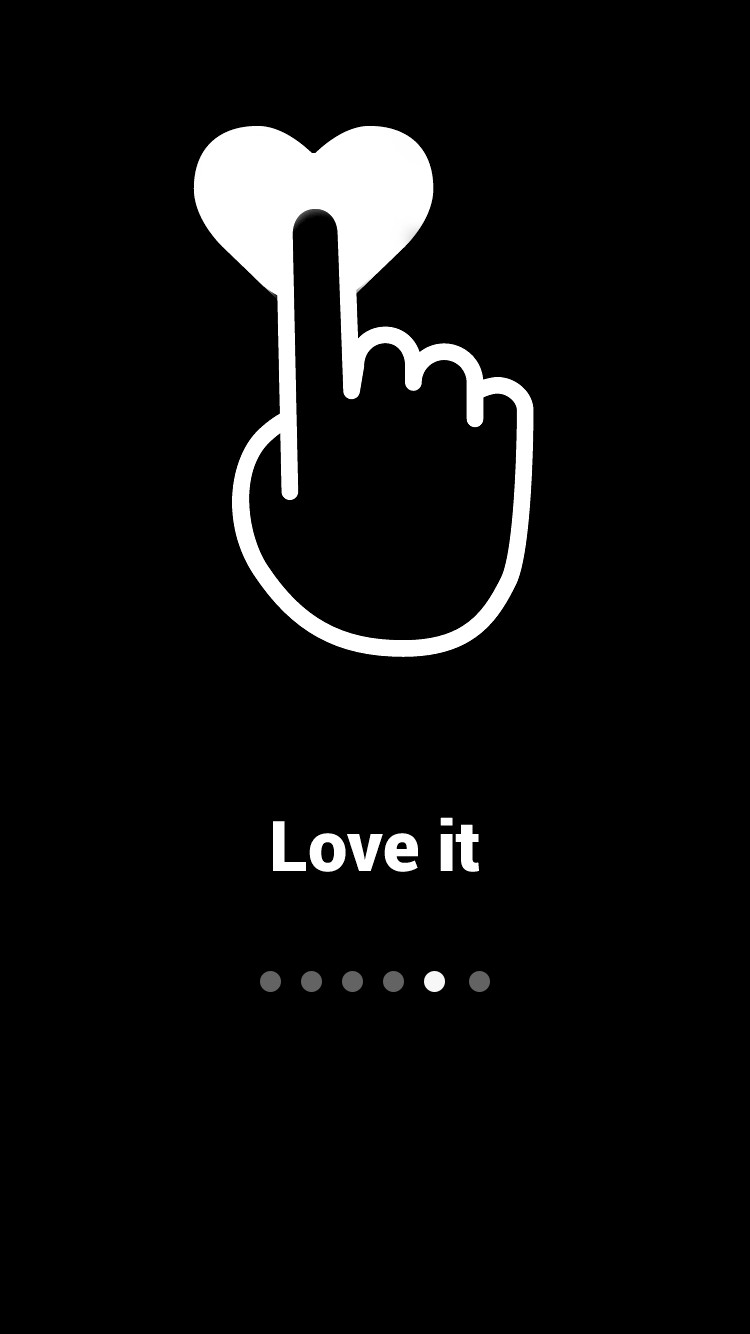
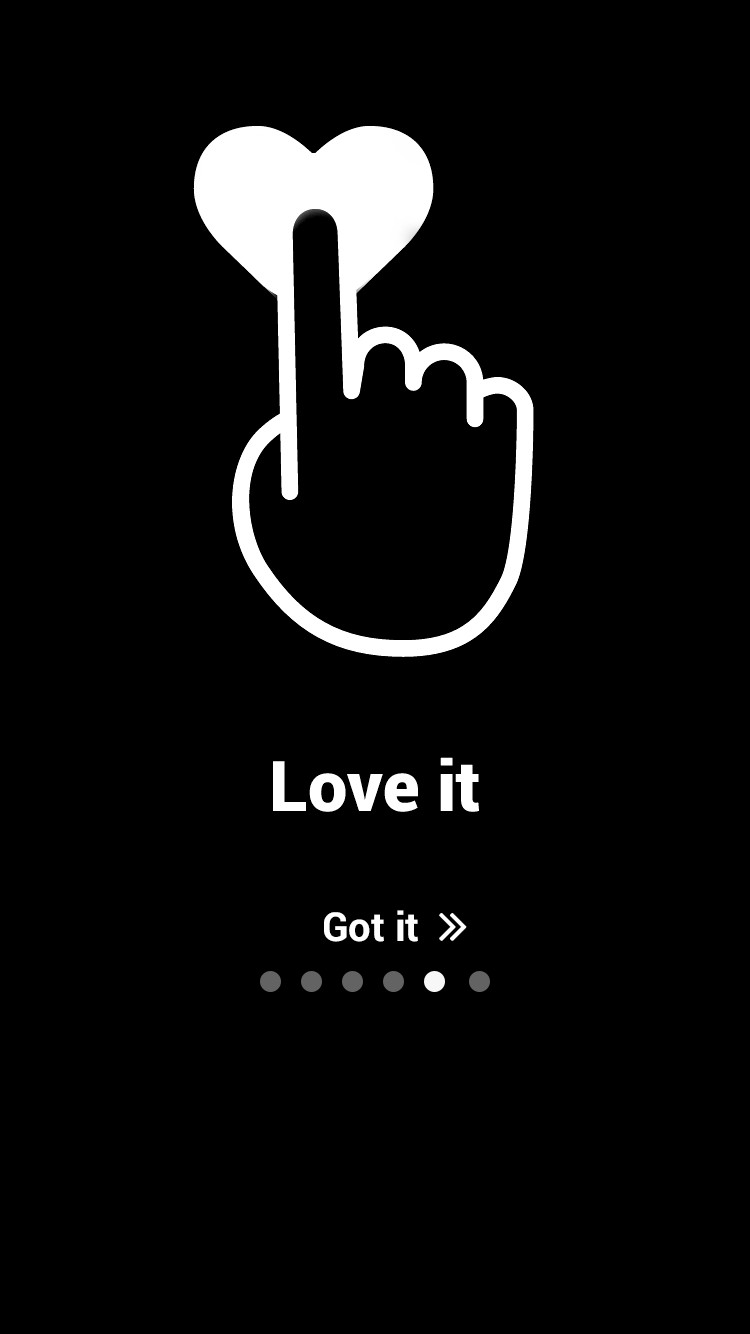
updated instruction

Changed region(s): [[0.3373, 0.5532, 0.552, 0.7069], [0.5827, 0.5532, 0.644, 0.7069]]

diff --git a/public/js/controller/remotecontrol.js b/public/js/controller/remotecontrol.js
@@ -1,11 +1,11 @@
 var angular = angular || {};
 
 angular.module('app.controller.remotecontrol', [])
-.controller('RemoteControlCtrl', ["$scope", "$rootScope", "$location", "$socket", "$state", "ParseService", "$interval", 
+.controller('RemoteControlCtrl', ["$scope", "$rootScope", "$location", "$socket", "$state", "ParseService", "$interval",
 	function($scope, $rootScope, $location, $socket, $state, ParseService, $interval) {
 	console.log("RemoteControlCtrl.");
     $rootScope.title = $location.url();
-	
+
 	//comment out for testing
     if($rootScope.partner == undefined) {$state.transitionTo('Start');};
 
@@ -23,7 +23,7 @@ angular.module('app.controller.remotecontrol', [])
 	    	if ( $scope.content[i].price == " (Signup)") {
 	    		$scope.total = $scope.total;
 	    	} else {
-			    $scope.total = $scope.total + $scope.content[i].price;	    		
+			    $scope.total = $scope.total + $scope.content[i].price;
 	    	}
 		    console.log($scope.content[i].price);
 	    };
@@ -69,7 +69,7 @@ angular.module('app.controller.remotecontrol', [])
 		$("#toucharea").show();
 		$("#cartcontents").hide();
 		$("#help").hide();
- 		$("#viewcarticon").css("background-color", "#e52d27")
+ 		$("#viewcarticon").css("background-color", "#ccc");
 
 		$("#tvicon").removeClass("inactive");
 		$("#helpicon").addClass("inactive");
@@ -81,33 +81,35 @@ angular.module('app.controller.remotecontrol', [])
         $socket.emit('remote view cart', { "partner": $rootScope.partner });
 		$("#toucharea").hide();
  		$("#cartcontents").show();
- 		$("#viewcarticon").css("background-color", "#000")
+ 		$("#viewcarticon").css("background-color", "#000");
 
 		$("#tvicon").addClass("inactive");
 		$("#helpicon").addClass("inactive");
 		$("#moreicon").addClass("inactive");
 	};
 
-	$scope.next = function () { 
+	$scope.next = function () {
 		console.log(index);
-		if(index == 0) {index++; $("#prev").fadeIn(); $("#next").fadeOut(); }
-		else if(index == 1) {index++; $("#up").fadeIn(); $("#prev").fadeOut(); }
-		else if(index == 2) {index++; $("#down").fadeIn(); $("#up").fadeOut(); }
-		else if(index == 3) {index++; $("#heart").fadeIn(); $("#down").fadeOut(); }
-		else if(index == 4) {index++; $("#end").fadeIn(); $("#heart").fadeOut(); }
+		if(index == 0) {index++; $("#next").fadeIn(); $("#intro").fadeOut(); }
+		else if(index == 1) {index++; $("#prev").fadeIn(); $("#next").fadeOut(); }
+		else if(index == 2) {index++; $("#up").fadeIn(); $("#prev").fadeOut(); }
+		else if(index == 3) {index++; $("#down").fadeIn(); $("#up").fadeOut(); }
+		else if(index == 4) {index++; $("#heart").fadeIn(); $("#down").fadeOut(); }
+		else if(index == 5) {index++; $("#end").fadeIn(); $("#heart").fadeOut(); }
 		// else if(index == 5) {index = 0; $("#next").fadeIn(); $("#end").fadeOut(); };
 	};
 
-	$scope.prev = function () { 
+	$scope.prev = function () {
 		console.log(index);
 		if(index == 0) {
 			// index = 0; $("#end").fadeIn(); $("#next").fadeOut();
 		}
-		else if(index == 1) {index--; $("#next").fadeIn(); $("#prev").fadeOut(); }
-		else if(index == 2) {index--; $("#prev").fadeIn(); $("#up").fadeOut(); }
-		else if(index == 3) {index--; $("#up").fadeIn(); $("#down").fadeOut(); }
-		else if(index == 4) {index--; $("#down").fadeIn(); $("#heart").fadeOut(); }
-		else if(index == 5) {index--; $("#heart").fadeIn(); $("#end").fadeOut();};
+		else if(index == 1) {index--; $("#intro").fadeIn(); $("#next").fadeOut(); }
+		else if(index == 2) {index--; $("#next").fadeIn(); $("#prev").fadeOut(); }
+		else if(index == 3) {index--; $("#prev").fadeIn(); $("#up").fadeOut(); }
+		else if(index == 4) {index--; $("#up").fadeIn(); $("#down").fadeOut(); }
+		else if(index == 5) {index--; $("#down").fadeIn(); $("#heart").fadeOut(); }
+		else if(index == 6) {index--; $("#heart").fadeIn(); $("#end").fadeOut();};
 	};
 
 	$scope.help = function(){
@@ -116,13 +118,13 @@ angular.module('app.controller.remotecontrol', [])
 		$("#help").show();
 		$("#toucharea").hide();
 		$("#cartcontents").hide();
- 		$("#viewcarticon").css("background-color", "#e52d27");
+ 		$("#viewcarticon").css("background-color", "#ccc");
 		$("#tvicon").addClass("inactive");
 		$("#helpicon").removeClass("inactive");
 		$("#moreicon").addClass("inactive");
 
 		//make sure
-		$("#next").show();
+		$("#intro").show();
 		$("#end").hide();
 		index = 0;
 	};
@@ -133,7 +135,7 @@ angular.module('app.controller.remotecontrol', [])
 		$("#toucharea").hide();
 		$("#cartcontents").hide();
 		$("#help").hide();
- 		$("#viewcarticon").css("background-color", "#e52d27")
+ 		$("#viewcarticon").css("background-color", "#ccc");
 
 		$("#tvicon").addClass("inactive");
 		$("#helpicon").addClass("inactive");

diff --git a/public/js/controller/connectscreen.js b/public/js/controller/connectscreen.js
@@ -8,34 +8,47 @@ angular.module('app.controller.connectscreen', [])
 	// http://stackoverflow.com/questions/1349404/generate-a-string-of-5-random-characters-in-javascript
     var possible = "0123456789";
 
-	function keykeykey() {
+	function keykeykey( callback ) {
+		$scope.pairKey = "";
 	    //create a unique key and send it to server
 	    for( var i=0; i < 4; i++ ) {
 	        $scope.pairKey += possible.charAt(Math.floor(Math.random() * possible.length));
 	        if ($scope.pairKey.length == 4) {
 			    console.log($scope.pairKey);
+				$scope.$apply();
 			    $socket.emit('pairKey', $scope.pairKey, function(data){
 			    	$rootScope.myId = data;
 			    	console.log($rootScope.myId);
 			    });
 			}
 	    };
+	    if (callback){ callback(); };
 	};
 
-    //if after 3s no key is asigned, get a new key
-	setTimeout(function(){
-		if ($scope.pairKey == "") {
-			keykeykey();
-			console.log("setTimeout kicked in");
-		};
-	}, 5000);
+	function fadeKeyIn(){
+		//when the array is full then fade in the key
+		if ($rootScope.heartsArray.length == 6 && $scope.pairKey !== ""){
+			console.log("fadeKeyIn", $scope.pairKey, $("#key").html());
+			$("#loading").fadeOut( function (){
+				$("#key").fadeIn();
+			});
+		} else {
+			console.log("key is empty, get key");
+			keykeykey(function(){
+				setTimeout(function(){
+					fadeKeyIn();
+				}, 1000);
+			});
+		}
+	}
 
     $socket.on('get key', function(){
     	console.log("server says get key")
     	if( $scope.pairKey == "" ) {
+    		console.log("key is empty, get key");
     		keykeykey();
     	} else {
-		    console.log($scope.pairKey);
+		    console.log("already have key: " + $scope.pairKey);
 		}
     })
 
@@ -117,22 +130,20 @@ angular.module('app.controller.connectscreen', [])
 		getDataFromYT(function(data){
 			console.log(data[0].attributes);
 			for (i=0;i<data.length;i++) {
+				//
+				//
+				//
+				// CHANGE heartstest to hearts for real data
+				//
+				//
+				//
 				processData(data[i].attributes.hearts, data[i].attributes.duration, i, function(cbdata) {
 					// console.dir(cbdata);
 					$rootScope.heartsArray.push(cbdata);
 					// console.log($rootScope.heartsArray);
 				});
 			}
-			//when the array is full then fade in the key
-			if ($rootScope.heartsArray.length == 6 && $scope.pairKey !== ""){
-				$("#loading").fadeOut( function (){
-					$("#key").fadeIn();
-				});
-			} else {
-				$("#loading").delay(3000).fadeOut( function (){
-					$("#key").fadeIn();
-				})
-			}
+			fadeKeyIn();
 		});
 	});
 

diff --git a/public/css/style.css b/public/css/style.css
@@ -42,6 +42,11 @@ body{
 	-webkit-transition: 1s;
 }
 
+#connectscreen span {
+	font-style: italic;
+	border-bottom: 2px solid #fff;
+}
+
 #connectscreen h1:hover {
 	background-color: #e52d27;
 }
@@ -438,15 +443,16 @@ iframe {
 	text-align: center;
  }
 
-/****************** REMOTE CONTROLE *********************/
+/****************** REMOTE CONTROL *********************/
 
 #toucharea {
 	z-index: 10;
 	position: absolute;
 	top: 0;
-	height: 88vh;
-	width: 100vw;
+	height: 86vh;
+	width: calc(100vw - 2vh);
 	margin: 0;
+	border: 1vh solid #444;
 	-webkit-transition: 0.5s cubic-bezier(0.250, 0.250, 0.750, 0.750) all;
 	-moz-transition: 0.5s cubic-bezier(0.250, 0.250, 0.750, 0.750) all;
 	-ms-transition: 0.5s cubic-bezier(0.250, 0.250, 0.750, 0.750) all;
@@ -459,14 +465,12 @@ iframe {
 	z-index: 20;
 	position: absolute;
 	top: 0;
-	bottom: 12vh;
-	height: 88vh;
+	height: 87vh;
 	width: 100vw;
-	padding-bottom: 20vh;
 	margin: 0;
 	color: #000;
 	font-size: 8vw;
-	background-color: #f8f8f8;
+	background-color: #eee;
 	overflow: scroll;
 }
 
@@ -517,7 +521,7 @@ iframe {
 	margin: 0;
 }*/
 
-#prev, #next, #up, #down, #heart, #end {
+#intro, #prev, #next, #up, #down, #heart, #end {
 	z-index: 20;
 	position: fixed;
 	top: 0;
@@ -542,7 +546,7 @@ iframe {
 
 #morelinks {
 	z-index: 20;
-	position: absolute;
+	position: fixed;
 	top: 0;
 	height: 88vh;
 	width: 100vw;
@@ -564,10 +568,10 @@ iframe {
 	z-index: 100;
 	position: fixed;
 	bottom: 0;
+	border-top: 1vh solid #444;
 	height: 12vh;
 	width: 100vw;
 	margin: 0;
-	border-top: 1vh solid #000;
 	display: block;
 	background-color: #fff;
 }
@@ -617,7 +621,7 @@ iframe {
 #viewcarticon {
 	width: 30vw !important;
 	height: 26vw !important;
-	background-color: #e52d27;
+	background-color: #ccc;
 	border-radius: 4vw 4vw 0 0;
 	position: absolute;
 	bottom: -1vw;
@@ -820,7 +824,3 @@ progress-bar {
 	z-index: 101;
 	bottom: 0;
 }
-
-
-
-

diff --git a/public/js/app.js b/public/js/app.js
@@ -1,8 +1,8 @@
 var angular = angular || {};
 
-// Main JavaScript file
-// Init Angular world by linking to 'myApp' namespace declared in <body>
-// in [ ], add any dependencies used for the project
+// Our main JavaScript file
+// Init Angular world by linking to 'myApp' namespace we declared in <body>
+// in [ ], we add any dependencies used for the project
 // `ui.router` is reserved by ui.router library
 
 angular.module('myApp', ['ui.router',
@@ -29,13 +29,16 @@ angular.module('myApp', ['ui.router',
     //start with empty cart
     $rootScope.cartarray = [];
 
-    //parse app key, js key
+    //app key, js key
     Parse.initialize("MdRE1kDbDdzLGlnL58RylsrgHedWuyt5havoBScC", "oIeP9WumrqoPgFV5StUEfIK58xbQOtUgFf6e7RPk");
 
   })
   //options of each services, chained to .run
   //no angular services in there
   .config(function($socketProvider){
-    //Server:Port (server side app.js) e.g. "http://192.168.1.31:3000"
-    $socketProvider.setConnectionUrl('SERVER:PORT');
+    //IMPORTANT CHANGE WHEN MOVING TO DIFFERENT SERVER
+    $socketProvider.setConnectionUrl('http://my.hamsta.us');
+    // $socketProvider.setConnectionUrl('http://192.168.1.31:3000');
+    // $socketProvider.setConnectionUrl('http://10.0.1.19:3000');
+    // $socketProvider.setConnectionUrl('http://149.31.134.39:3000');
   });

diff --git a/public/views/remotecontrol.html b/public/views/remotecontrol.html
@@ -1,6 +1,7 @@
 <div class="page" id="remotecontrol">
 	<div id="help" mn-touch swipe-left="next()" mn-touch secure-tap="next()" mn-touch swipe-right="prev()">
-		<div id="next"><img src="img/next.jpg" alt=""></div>
+		<div id="intro"><img src="img/intro.jpg" alt=""></div>
+		<div style="display:none;" id="next"><img src="img/next.jpg" alt=""></div>
 		<div style="display:none;" id="prev"><img src="img/prev.jpg" alt=""></div>
 		<div style="display:none;" id="up"><img src="img/up.jpg" alt=""></div>
 		<div style="display:none;" id="down"><img src="img/down.jpg" alt=""></div>
@@ -32,7 +33,7 @@
 	mn-touch swipe-down="down()"
 	mn-touch swipe-right="plus()"
 	mn-touch secure-tap="heart($event)">
-	<p style="font-size: 8vw;">Swipe in any direction<br>or tap.</p>
+	<p style="font-size: 8vw;">Swipe or tap<br>in this area.</p>
 	</div>
 	<div id="navigation">
 		<div class="inactive" id="turnofficon" ng-click="turnoff()"><img src="img/turnoff.png" alt="turnoff"></div>

diff --git a/public/views/connectremote.html b/public/views/connectremote.html
@@ -3,7 +3,7 @@
     <!-- http://danielfriesen.name/blog/2013/09/19/input-type-number-and-ios-numeric-keypad/ -->
 	<p>Enter the 4 digit code.</p>
 	<form name="keyForm">
-	<input ng-model="matchKey" type="number" name="key" ng-minlength="4" ng-maxlength="4" inputmode="numeric" pattern="[0-9]*" title="keycode" required>
+	<input id="keyval" ng-model="matchKey" type="number" name="key" ng-minlength="4" ng-maxlength="4" inputmode="numeric" pattern="[0-9]*" title="keycode" required>
 	<!-- needs ngAnimate (angular-animate.js) -->
     <button id="go" ng-disabled="keyForm.$invalid" class="animate-hide" ng-hide="keyForm.key.$invalid" ng-click="keyToSend()">Go</button>
     </form>

diff --git a/public/views/connectscreen.html b/public/views/connectscreen.html
@@ -1,6 +1,7 @@
 <div class="page" id="connectscreen">
 	<img src="img/logo2.png" alt="" style="width: 30vw; margin-bottom: 40px;">
-	<p>To start, go to <span>my.hamsta.us</span> on your phone and type in the following code.</p>
+	<p>To start this new YouTube watching experience use your phone and go to <span>my.hamsta.us</span></p>
+	<p>Then enter the following code.</p>
 	<h2 id="loading"><i class="fa fa-spinner fa-pulse 2x"></i></h2>
     <h1 id="key" style="display: none">{{pairKey}}</h1>
     <div id="what"><a href="http://hamsta.us">Wait, what is this?</a></div>

diff --git a/public/js/services.js b/public/js/services.js
@@ -2,14 +2,14 @@ var angular = angular || {};
 
 angular.module('app.services', [])
 .factory('ParseService', function() {
-  //class name is youtube
-  var UserObject = Parse.Object.extend("youtube");
+  var UserObject = Parse.Object.extend("testtesttest");
   var userObject = new UserObject();
   var query = new Parse.Query(UserObject);
   var service = {};
 
   //get method
   service.getData = function(callback) {
+    // query.equalTo("first_name", "Hello");
     query.find({
       success: function(res) {
           callback(res);

diff --git a/app.js b/app.js
@@ -38,6 +38,11 @@ io.sockets.on('connection', function (socket) {
     });
 
     socket.on('matchKey', function (data, callback){
+        //
+        // Need to fix here, seems like the key is right on screen and remote
+        // but comparison here results in wrong
+        // maybe implement user rooms, where partners join...
+        //
         console.log("matchKey data; " + data);
         var sent = 0;
         for (var i = users.length - 1; i >= 0; i--) {

diff --git a/public/js/controller/connectremote.js b/public/js/controller/connectremote.js
@@ -6,7 +6,8 @@ angular.module('app.controller.connectremote', [])
     $rootScope.title = $location.url();
 
 	$scope.keyToSend = function () {
-		console.log("send key");
+		console.log($("#keyval").val());
+		console.log("send key", $scope.matchKey);
 	    $socket.emit('matchKey', $scope.matchKey, function (data) {
 	        //this is the callback function
 	        console.log(data);
